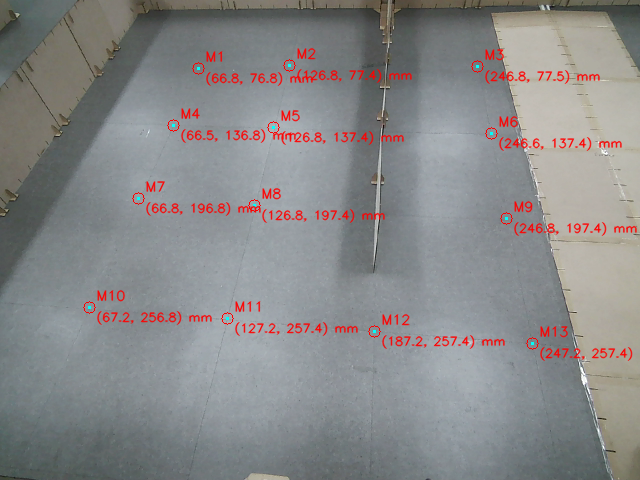
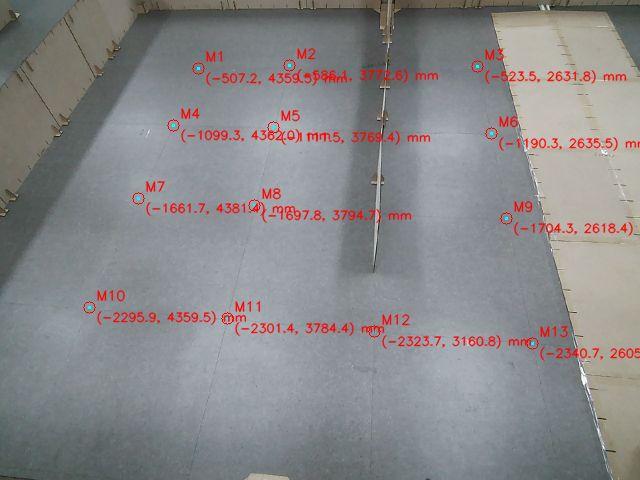
fix: SLAM 좌표 기반 웹캠2 캘리브레이션 적용
로봇 주행으로 측정한 map 좌표를 기준점으로 사용해 호모그래피를 다시 계산한다. 실행 로더는 새 homography 키와 기존 H 키를 모두 지원한다.

diff --git a/ros2_ws/src/mro_webcam/mro_webcam/core/homography.py b/ros2_ws/src/mro_webcam/mro_webcam/core/homography.py
@@ -37,9 +37,16 @@ DEFAULT_JSON = os.path.join(HERE, '..', '..', 'config', 'WebCam1', 'homography_c
 
 # --------------------------------------------------------------- 사용 함수
 def load_homography(path=DEFAULT_JSON):
-    with open(path) as f:
+    """새 `homography`와 기존 `H` JSON 키를 모두 지원한다."""
+    with open(path, encoding='utf-8') as f:
         d = json.load(f)
-    return np.array(d['H'], dtype=np.float64)
+    matrix_data = d.get('homography', d.get('H'))
+    if matrix_data is None:
+        raise KeyError("JSON에 'homography' 또는 'H' 행렬이 없습니다.")
+    matrix = np.array(matrix_data, dtype=np.float64)
+    if matrix.shape != (3, 3) or not np.isfinite(matrix).all():
+        raise ValueError('Homography는 유한한 수로 된 3x3 행렬이어야 합니다.')
+    return matrix
 
 
 def pixel_to_map(H, u, v):
